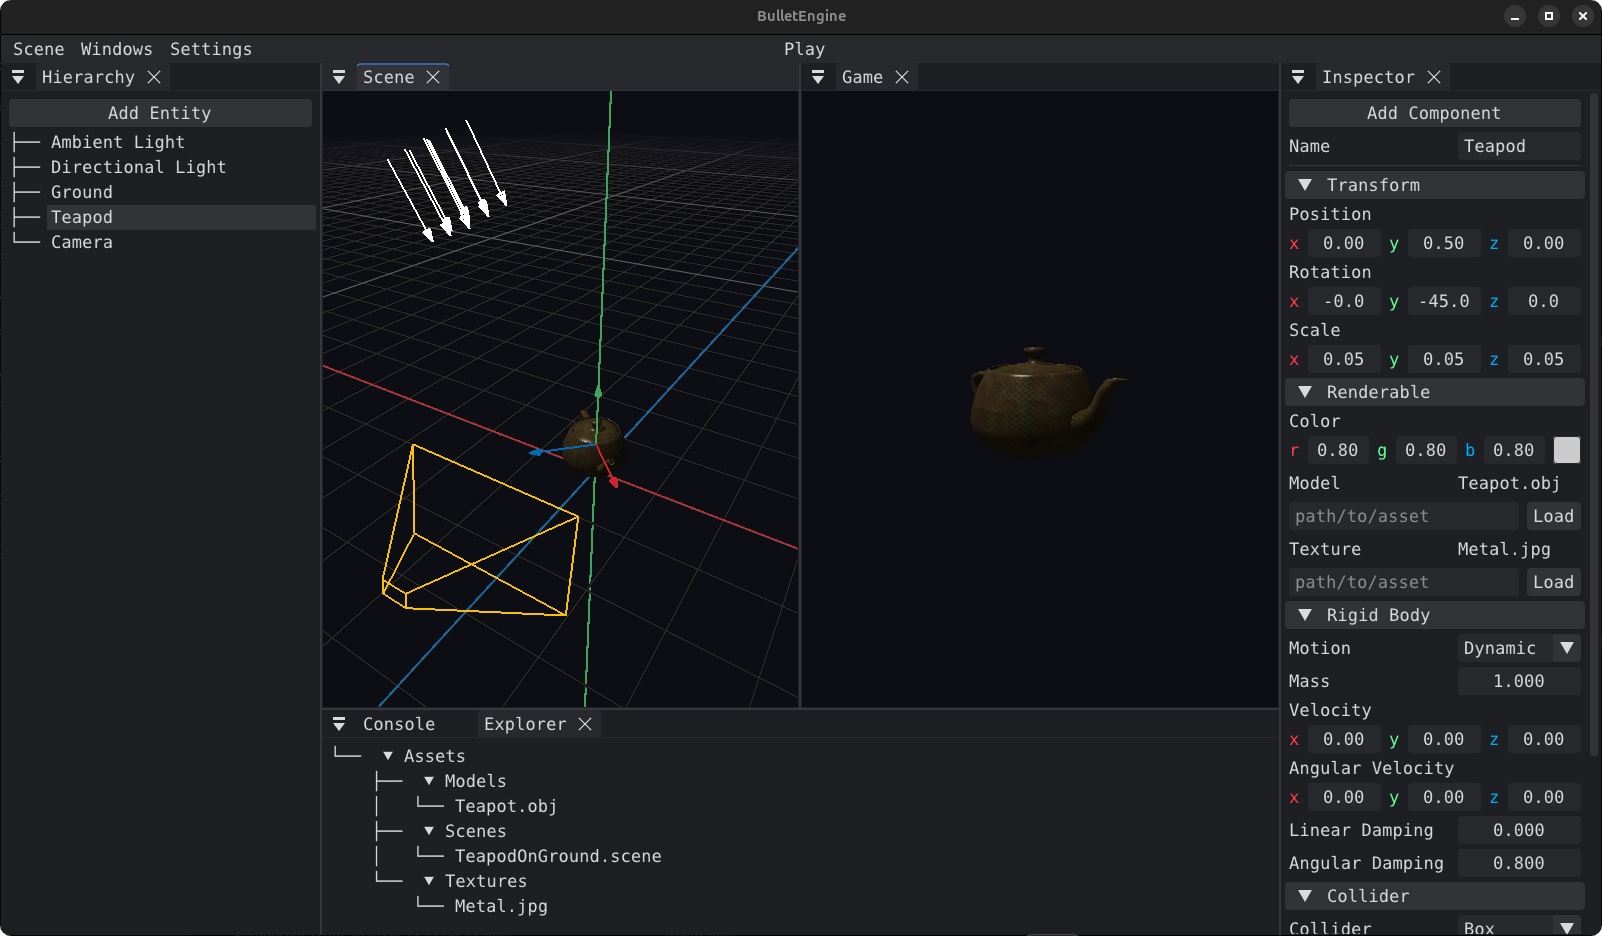
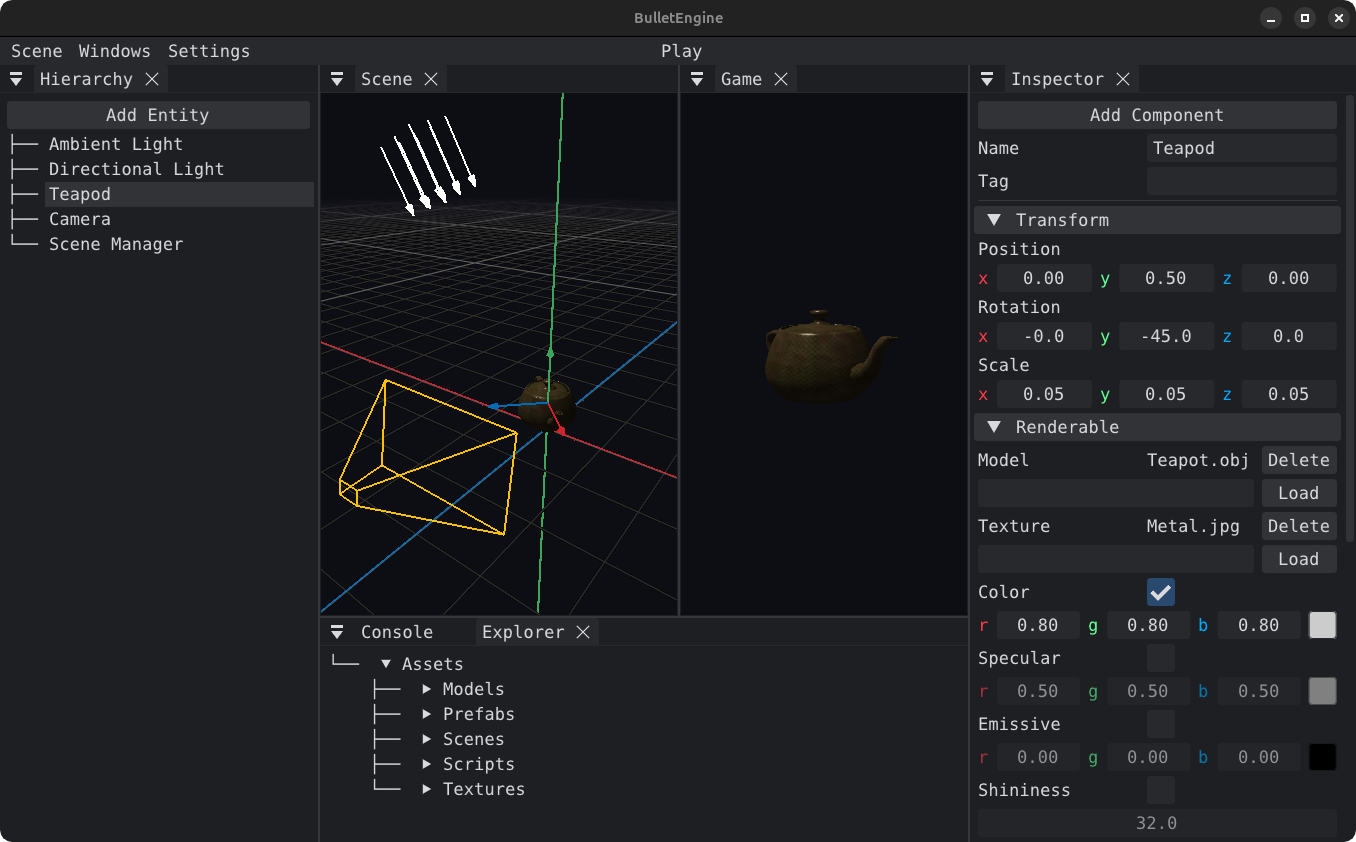
feat(editor) add better render component

diff --git a/src/interface/windows/Inspector.cpp b/src/interface/windows/Inspector.cpp
@@ -228,6 +228,42 @@ void Editor::syncCollider(ecs::Entity entity)
     }
 }
 
+// term the asset may fill instead, toggle clears it back to whatever came with the model
+bool Editor::drawOptional(const reflect::Field& field, void* instance)
+{
+    bool enabled = field.has(instance);
+
+    const char* label = field.getLabel().c_str();
+    const reflect::Value value = field.get(instance);
+
+    // override draws caption and toggle, so the control below carries none
+    const bool isColor = field.getType() == reflect::ValueType::Vec3;
+
+    glm::vec3 color = isColor ? value.get<glm::vec3>() : glm::vec3{};
+    float scalar = isColor ? 0.0f : value.get<float>();
+
+    const float min = field.hasRange() ? field.getMin() : -DRAG_LIMIT;
+    const float max = field.hasRange() ? field.getMax() : DRAG_LIMIT;
+
+    const bool edited = isColor
+        ? BulletRender::interface::overrideField(label, enabled, color)
+        : BulletRender::interface::overrideField(label, enabled, scalar, min, max, "%.1f");
+
+    if (!edited)
+    {
+        return false;
+    }
+
+    if (!enabled)
+    {
+        field.clear(instance);
+        return true;
+    }
+
+    field.set(instance, isColor ? reflect::Value(color) : reflect::Value(scalar));
+    return true;
+}
+
 // one value of any supported type
 bool Editor::drawValue(const reflect::Field& field, void* instance)
 {
@@ -297,24 +333,31 @@ bool Editor::drawValue(const reflect::Field& field, void* instance)
 
             if (field.isAsset())
             {
-                BulletRender::interface::statRow(name, "%s", assets::toLabel(v).c_str());
+                // state types a path, it never mirrors the key a preset carries
+                BulletRender::interface::AssetFieldState& slot = m_assetPaths[field.getName()];
 
-                // the field types a path, it never mirrors the key a preset carries
-                AssetPath& typed = m_assetPaths[field.getName()];
-
-                if (BulletRender::interface::loadFromFileField(field.getName().c_str(), typed.text, sizeof(typed.text), "path/to/asset", ASSET_DRAG_TYPE))
+                switch (BulletRender::interface::assetField(name, assets::toLabel(v).c_str(), !v.empty(), slot, ASSET_DRAG_TYPE))
                 {
-                    field.set(instance, std::string(typed.text));
+                    case BulletRender::interface::AssetAction::Clear:
+                        field.set(instance, std::string{});
+                        slot.error.clear();
+                        changed = true;
+                        break;
 
-                    // the key only sticks when the asset behind it loaded
-                    typed.error = field.get(instance).get<std::string>() == typed.text
-                        ? std::string{}
-                        : "failed to load " + std::string(typed.text);
+                    case BulletRender::interface::AssetAction::Load:
+                        field.set(instance, std::string(slot.path));
 
-                    changed = true;
+                        // the key only sticks when the asset behind it loaded
+                        slot.error = field.get(instance).get<std::string>() == slot.path
+                            ? std::string{}
+                            : "failed to load " + std::string(slot.path);
+
+                        changed = true;
+                        break;
+
+                    default:
+                        break;
                 }
-
-                BulletRender::interface::errorText(typed.error);
 
                 break;
             }
@@ -529,7 +572,7 @@ bool Editor::drawField(const reflect::Field& field, void* instance)
         return false;
     }
 
-    return drawValue(field, instance);
+    return field.isOptional() ? drawOptional(field, instance) : drawValue(field, instance);
 }
 
 // fields arrive either as values or as pointers, one walk serves both

diff --git a/src/reflect/Type.h b/src/reflect/Type.h
@@ -32,6 +32,8 @@ public:
     using Getter = std::function<Value(const void*)>;
     using Setter = std::function<void(void*, const Value&)>;
     using Resolver = std::function<void*(const void*, const Type**)>;
+    using Query = std::function<bool(const void*)>;
+    using Clear = std::function<void(void*)>;
     using Builder = std::function<void*(void*, const Type&)>;
 
     Field(std::string name, ValueType type, Getter getter, Setter setter)
@@ -67,8 +69,20 @@ public:
     bool isAxes() const { return m_axes; }          // first of three, drawn as one row of x y z
     void setAxes(bool axes) { m_axes = axes; }
 
+    // unset until someone asks for it, so whatever the asset brought stands
+    bool isOptional() const { return m_has != nullptr; }
+    bool has(const void* instance) const { return m_has && m_has(instance); }
+    void clear(void* instance) const { if (m_clear) { m_clear(instance); } }
+    void setOptional(Query has, Clear clear) { m_has = std::move(has); m_clear = std::move(clear); }
+
     float getSpeed() const { return m_speed; }      // how fast a drag walks the value, zero leaves it to the editor
     void setSpeed(float speed) { m_speed = speed; }
+
+    // what the value may reach, equal bounds leave it to the editor
+    float getMin() const { return m_min; }
+    float getMax() const { return m_max; }
+    bool hasRange() const { return m_min < m_max; }
+    void setRange(float min, float max) { m_min = min; m_max = max; }
 
     // value
     Value get(const void* instance) const { return m_getter ? m_getter(instance) : Value{}; }
@@ -95,7 +109,12 @@ private:
     bool m_asset = false;
     bool m_bits = false;
     bool m_axes = false;
+
+    Query m_has;
+    Clear m_clear;
     float m_speed = 0.0f;
+    float m_min = 0.0f;
+    float m_max = 0.0f;
 
     Getter m_getter;
     Setter m_setter;

diff --git a/src/reflect/Reflect.h b/src/reflect/Reflect.h
@@ -284,6 +284,12 @@ Field makeMemberField(std::string name, M C::* member)
 #define BITS()                                                                          \
             type.getLastField().setBits(true);
 
+// field the asset may fill instead, editor shows a toggle that clears it again
+#define OPTIONAL(MEMBER, HAS, CLEAR)                                                    \
+            type.getLastField().setOptional(                                            \
+                [](const void* instance) { return (static_cast<const Self*>(instance)->MEMBER).HAS(); },  \
+                [](void* instance) { (static_cast<Self*>(instance)->MEMBER).CLEAR(); });
+
 // marks first of three bool fields, editor draws them as one x y z row under TEXT
 #define AXES(TEXT)                                                                      \
             do {                                                                        \
@@ -301,6 +307,9 @@ Field makeMemberField(std::string name, M C::* member)
 
 #define SPEED(VALUE)                                                                    \
             type.getLastField().setSpeed(VALUE);
+
+#define RANGE(MIN, MAX)                                                                 \
+            type.getLastField().setRange(MIN, MAX);
 
 #define BASE(TYPE)                                                                      \
             type.setBase(Registry::instance().find(std::type_index(typeid(TYPE))));

diff --git a/src/ecs/systems/RenderSystem.cpp b/src/ecs/systems/RenderSystem.cpp
@@ -8,6 +8,20 @@ namespace BulletEngine {
 namespace ecs {
 namespace systems {
 
+// what the component overrides lands on the model, what it leaves alone keeps its mtl value
+static void apply(const BulletRender::render::Material& from, BulletRender::render::Material& to)
+{
+    if (from.hasColor())      { to.setColor(from.getColor()); }
+    if (from.hasSpecular())   { to.setSpecular(from.getSpecular()); }
+    if (from.hasShininess())  { to.setShininess(from.getShininess()); }
+    if (from.hasEmissive())   { to.setEmissive(from.getEmissive()); }
+
+    for (const BulletRender::render::TextureSlot& slot : from.getTextures())
+    {
+        to.setTexture(slot.uniformName, slot.texture, slot.unit);
+    }
+}
+
 RenderSystem::RenderSystem(BulletRender::scene::Scene& scene) : m_scene(scene) {}
 
 void RenderSystem::render(World& world)
@@ -30,7 +44,8 @@ void RenderSystem::render(World& world)
         {
             auto* object = m_scene.addObject(renderable->model.getShared());
 
-            object->getMaterial() = renderable->material;
+            // only terms the component set reach the object, rest stays as the model loaded it
+            apply(renderable->material, object->getMaterial());
             object->getTransform().setMatrix(matrix);
         }
 

diff --git a/src/interface/Editor.h b/src/interface/Editor.h
@@ -82,12 +82,6 @@ inline std::string toString(Preset preset)
     }
 }
 
-// what an asset field types into, with last failure to report
-struct AssetPath {
-    char text[256] = "";
-    std::string error;
-};
-
 // docked panels driving the world
 class Editor {
 public:
@@ -167,6 +161,7 @@ private:
 
     bool drawFields(const reflect::Type& type, void* instance, bool splitOwn = false);
     bool drawValue(const reflect::Field& field, void* instance);
+    bool drawOptional(const reflect::Field& field, void* instance);
     bool drawObjectType(const reflect::Field& field, void* instance, const reflect::Type* current);
 
     using ValueMap = std::unordered_map<std::string, reflect::Value>;
@@ -207,7 +202,7 @@ private:
     char m_sceneName[128] = "";
 
     // what is typed into an asset field before Load is pressed
-    std::unordered_map<std::string, AssetPath> m_assetPaths;
+    std::unordered_map<std::string, BulletRender::interface::AssetFieldState> m_assetPaths;
 
     // queued while the world is being walked
     std::vector<Preset> m_pendingCreate;

diff --git a/src/ecs/Components.cpp b/src/ecs/Components.cpp
@@ -157,12 +157,23 @@ END_REFLECT()
 
 REFLECT(RenderableComponent)
     BASE(Component)
-    NESTED("color", material, getColor, setColor)
-    COLOR()
     PROPERTY("model", getModelKey, setModelKey)
     ASSET()
     PROPERTY("texture", getTextureKey, setTextureKey)
     ASSET()
+    // unset terms leave whatever the model brought from its mtl
+    NESTED("color", material, getColor, setColor)
+    COLOR()
+    OPTIONAL(material, hasColor, clearColor)
+    NESTED("specular", material, getSpecular, setSpecular)
+    COLOR()
+    OPTIONAL(material, hasSpecular, clearSpecular)
+    NESTED("emissive", material, getEmissive, setEmissive)
+    COLOR()
+    OPTIONAL(material, hasEmissive, clearEmissive)
+    NESTED("shininess", material, getShininess, setShininess)
+    RANGE(1.0f, 256.0f)
+    OPTIONAL(material, hasShininess, clearShininess)
 END_REFLECT()
 
 REFLECT(CameraComponent)

diff --git a/src/Version.h b/src/Version.h
@@ -6,6 +6,6 @@
 
 namespace BulletEngine {
 
-inline constexpr const char* VERSION = "1.10.0";
+inline constexpr const char* VERSION = "1.11.0";
 
 } // namespace BulletEngine

diff --git a/README.md b/README.md
@@ -18,8 +18,65 @@
   
 </p>
 
-Minimal C/C++ 3D game engine. It brings a graphics engine module and a physics engine module together under a common entity model, editor and scene format.
+Small but complete C/C++ 3D game engine with Lua scripting. It combines a graphics engine module and a physics engine module under an ECS-based architecture, with an editor and its own project and scene workflow.
+
+Each module grew on its own, in a vacuum, and stays usable alone. Here they meet, and from now on both grow driven by what the engine turns out to need.
 
 <p align="center">
     <img src="assets/images/Demo.png" alt="Demo Editor" width="500">
 </p>
+
+## Features
+
+- **Entities** live in a flat world and hold their components, transforms form parent-child hierarchy
+- **Components** are pieces of behavior an entity is made of, attached and detached while world runs
+- **Reflection** lets a component be described once, and editor and scene format pick it up on their own
+- **Editor** shows the whole project, world is built and played without leaving it
+- **Scripting** in Lua, small language that embeds into engine, this is where game itself is written
+- **Scenes** save as readable text, so they can be read and fixed by hand as well as by editor
+- **Prefabs** keep an entity with everything below it, place it back anywhere
+- **Assets** of any kind are handled the same way, and reload on the fly when file changes
+
+## Dependencies
+
+Both modules come as submodules, everything they need applies here too:
+
+- [**BulletRender**](https://github.com/admtrv/BulletRender) for graphics
+- [**BulletPhysics**](https://github.com/admtrv/BulletPhysics) for physics
+
+Bundled in `external/`:
+
+- **Lua** and **sol2** for scripting
+
+## Usage
+
+Open a game project folder with engine:
+
+```
+BulletEngine ~/Games/NewGame
+```
+
+## Structure
+
+```
+src/
+├── app/          app and scheduler
+├── ecs/          entities, components, systems
+├── script/       lua runtime and script api
+├── scene/        reading and writing scenes and prefabs
+├── assets/       registry and loaders
+├── project/      project tree and its files
+├── reflect/      runtime type description
+├── interface/    editor panels
+└── io/           logging
+```
+
+## Future Work
+
+What comes next:
+
+- **UI**
+- **Audio**
+- **Build**
+- **Animations**
+- **Particles**
